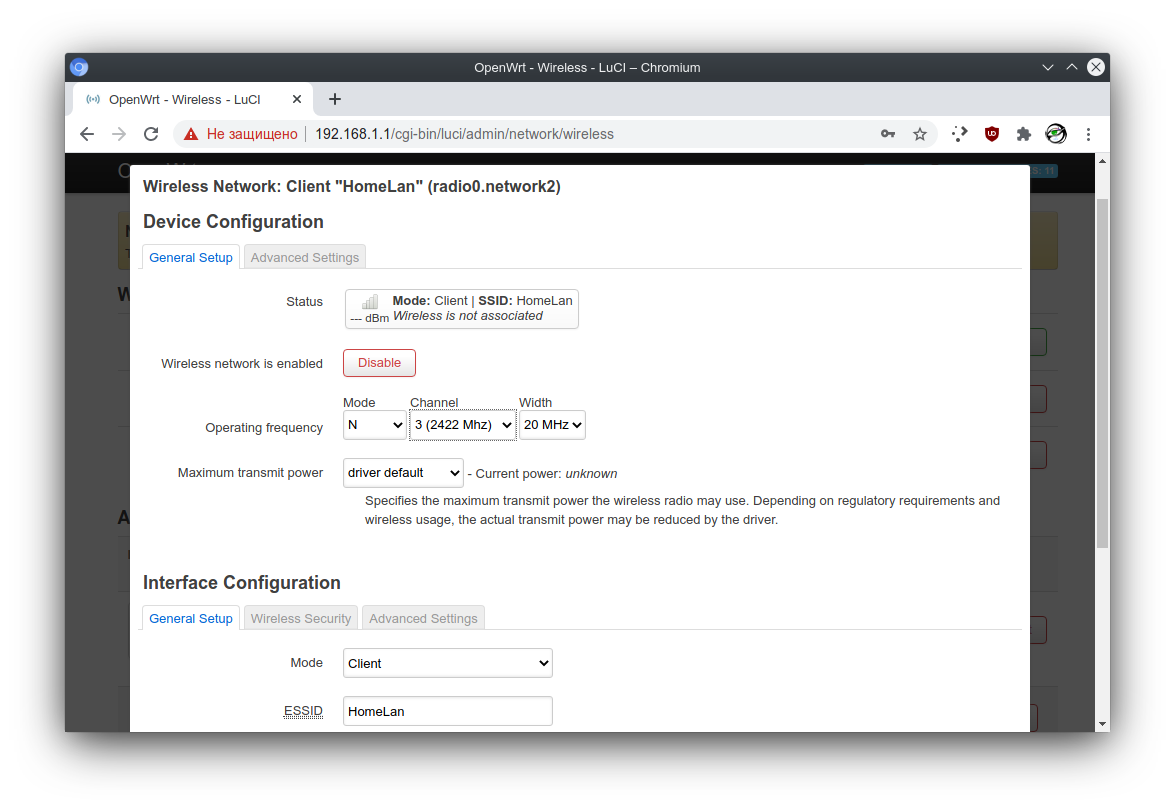
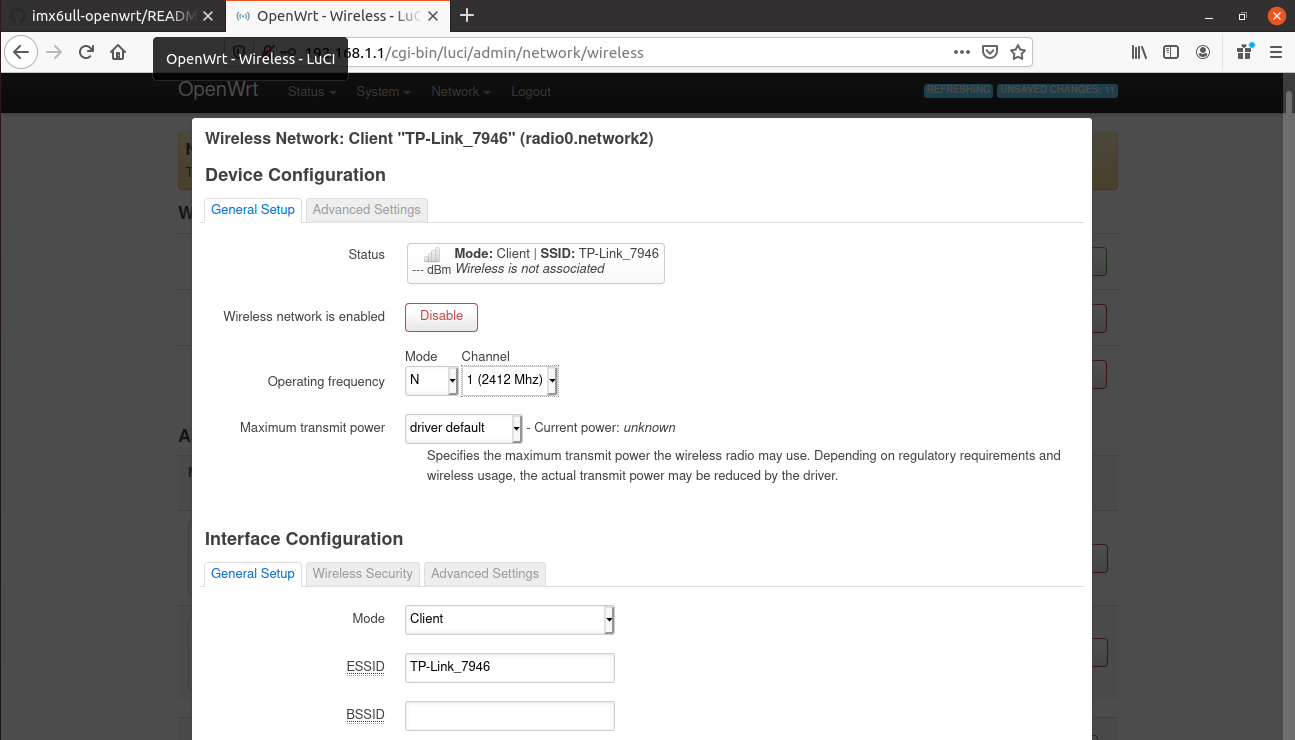
screenshot changed for NetSoM's

diff --git a/Documentation/README.wifi-sta-dualsetup-luci.md b/Documentation/README.wifi-sta-dualsetup-luci.md
@@ -76,7 +76,7 @@ describing *phy/radio* interface.
 ![Scan Button](images/wifi-sta-dualsetup/10-wireless-scan-button.png)
 
 **11.** In openned window you will see scan results. Here you have to remember
-`channel` of your uplink network (in this case it is 3) 
+`channel` of your uplink network (in this case it is 1) 
 and can select it by pressing `Join Network` button.
 ![WiFi Scan Results](images/wifi-sta-dualsetup/11-wireless-scan-results.png)
 
@@ -86,7 +86,7 @@ and Assign previously created `wwan` firewall zone. Name of the network should b
 ![WiFi Station Setup](images/wifi-sta-dualsetup/12-wireless-sta-setup.png)
 
 **13.** In this window you only need to setup proper channel number from step **11**.
-In this example we set channel `3`.
+In this example we set channel `1`.
 ![WiFi Channel Setup](images/wifi-sta-dualsetup/13-wireless-dev-channel-setup.png)
 
 **14.** Scroll down and press `Save` button.
